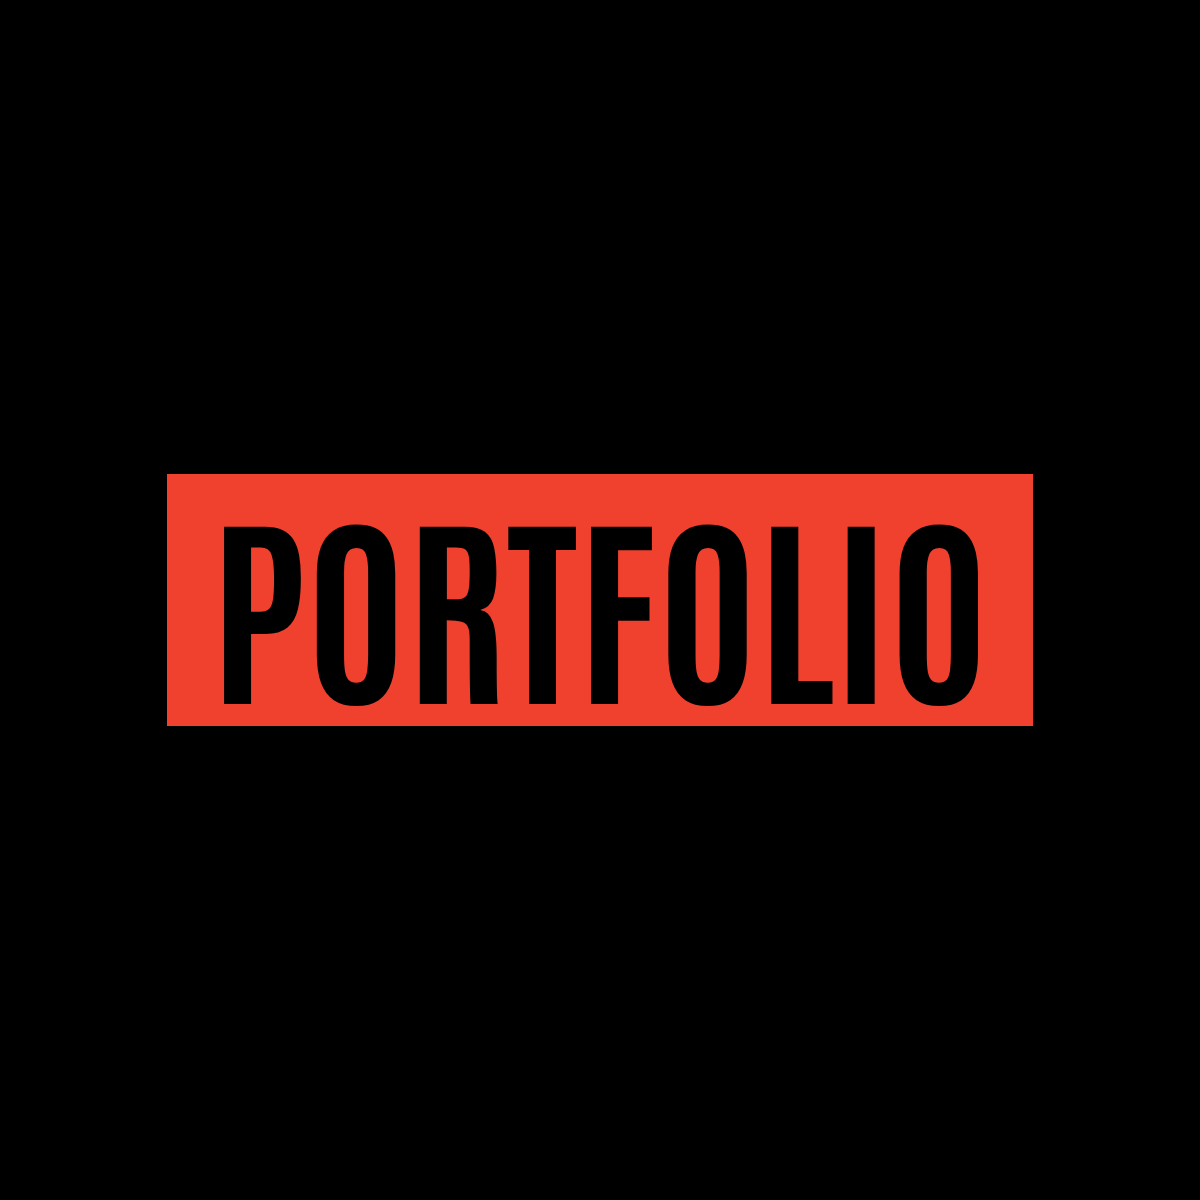
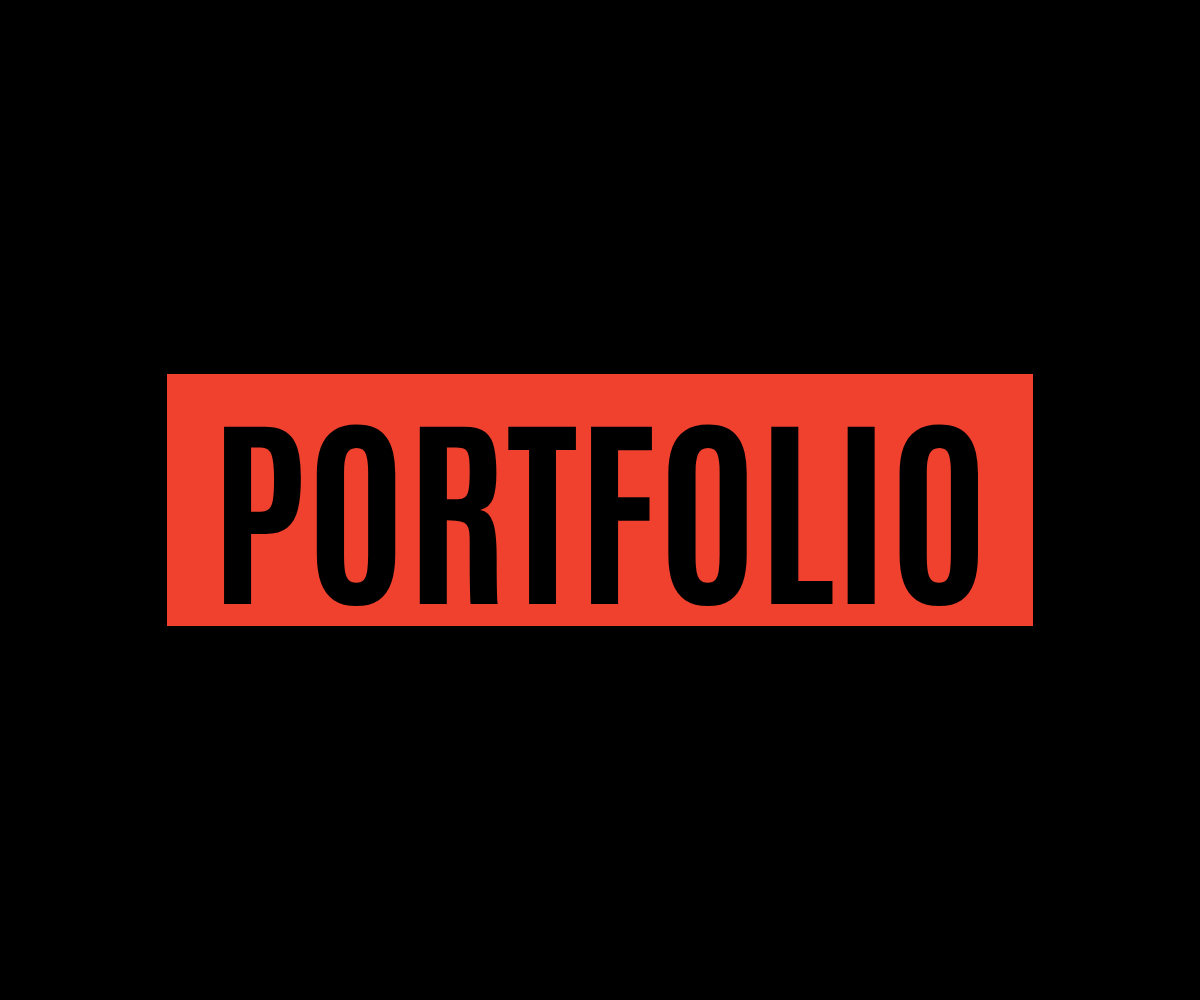
The link-preview picture is 1200 x 1000 instead of a square: a small preview shows the band a fifth larger and still whole; wide previews are unchanged

diff --git a/index.html b/index.html
@@ -7,16 +7,16 @@
     <meta name="description" content="Krishna Koushik Maddukuri is a Full Stack Software Engineer. Since 2020 he has built software, most recently distributed systems and cloud-native microservices for financial services: Java, Spring Boot, Apache Kafka and AWS." />
     <meta name="author" content="Krishna Koushik Maddukuri" />
     <!-- the card a shared link shows. The build fills these in for each page (scripts/prerender.mjs): its own
-         address, title and description, and the picture's full address under SITE_URL. The picture is a
-         square, because apps cut it two ways: a small preview shows all of it, a wide one only its middle
-         strip (1200 x 630). When the picture changes, raise ?v= on both of its tags below, so apps fetch the
-         new one instead of a copy they kept -->
+         address, title and description, and the picture's full address under SITE_URL. Apps cut the picture
+         two ways: a small preview shows its middle square (1000 x 1000), a wide one its middle strip
+         (1200 x 630), so the band sits inside both. When the picture changes, raise ?v= on both of its tags
+         below, so apps fetch the new one instead of a copy they kept -->
     <meta property="og:type" content="profile" />
     <meta property="og:title" content="Krishna Koushik Maddukuri · Full Stack Software Engineer" />
     <meta property="og:description" content="Distributed systems, event-driven pipelines and cloud-native microservices for financial services." />
     <meta property="og:image" content="https://krishna-maddukuri.github.io/og.png?v=2" />
     <meta property="og:image:width" content="1200" />
-    <meta property="og:image:height" content="1200" />
+    <meta property="og:image:height" content="1000" />
     <meta property="og:url" content="https://krishna-maddukuri.github.io/" />
     <meta name="twitter:card" content="summary_large_image" />
     <meta name="twitter:image" content="https://krishna-maddukuri.github.io/og.png?v=2" />

diff --git a/e2e/smoke.spec.ts b/e2e/smoke.spec.ts
@@ -96,12 +96,15 @@ test.describe('page load', () => {
     expect(study).toMatch(/<meta property="og:url" content="https:\/\/[^"]+\/work\/credit-bureau-reporting\/" \/>/)
     expect(study).toMatch(/<meta property="og:image" content="https:\/\/[^"]+\/og\.png\?v=\d+" \/>/)
     expect(study).not.toContain('content="Distributed systems, event-driven pipelines')
-    // the picture is the square its tags say it is: a small preview shows all of it, a wide one its middle strip
+    // the picture is the size its tags say: tall enough that a small (square) preview shows the whole band,
+    // while a wide preview shows the middle strip
     const picture = await page.request.get('/og.png')
     expect(picture.ok()).toBe(true)
     const png = await picture.body()
-    expect([png.readUInt32BE(16), png.readUInt32BE(20)], 'the picture: width, height').toEqual([1200, 1200])
-    for (const side of ['width', 'height']) expect(study).toContain(`<meta property="og:image:${side}" content="1200" />`)
+    const [width, height] = [png.readUInt32BE(16), png.readUInt32BE(20)]
+    expect([width, height], 'the picture: width, height').toEqual([1200, 1000])
+    expect(study).toContain(`<meta property="og:image:width" content="${width}" />`)
+    expect(study).toContain(`<meta property="og:image:height" content="${height}" />`)
     const sitemap = await (await page.request.get('/sitemap.xml')).text()
     for (const address of ['/resume/', '/work/credit-bureau-reporting/', '/work/internship-projects/']) expect(sitemap).toContain(`${address}</loc>`)
     expect(await (await page.request.get('/robots.txt')).text()).toMatch(/Sitemap: https:\/\/.+\/sitemap\.xml/)

diff --git a/README.md b/README.md
@@ -180,10 +180,11 @@ The tab icon is the "KM" monogram: `public/favicon.png` and `public/apple-touch-
 home screens). If you change the icon files, change `?v=km3` in `index.html` too, so browsers load the new
 icon instead of a cached one.
 
-The preview picture is a 1200 × 1200 square, because apps cut it two ways: a small preview (the compact card
-in WhatsApp) shows the whole square, and a wide one (LinkedIn, Facebook, X) shows only its middle strip,
-1200 × 630. Keep everything that matters inside that strip. If you change the picture, raise `?v=2` on both
-of its tags in `index.html`, so apps fetch the new one instead of a copy they kept.
+The preview picture is 1200 × 1000, because apps cut it two ways: a small preview (the compact card in
+WhatsApp) shows its middle square, 1000 × 1000, and a wide one (LinkedIn, Facebook, X) shows its middle
+strip, 1200 × 630. Keep everything that matters inside both, the middle 1000 × 630. If you change the
+picture, raise `?v=2` on both of its tags in `index.html`, so apps fetch the new one instead of a copy they
+kept; if its size changes, change `og:image:width` and `og:image:height` there too.
 
 **On your computer.** Edit the files, check them with `npm run dev`, then commit and push to `main`.
 
